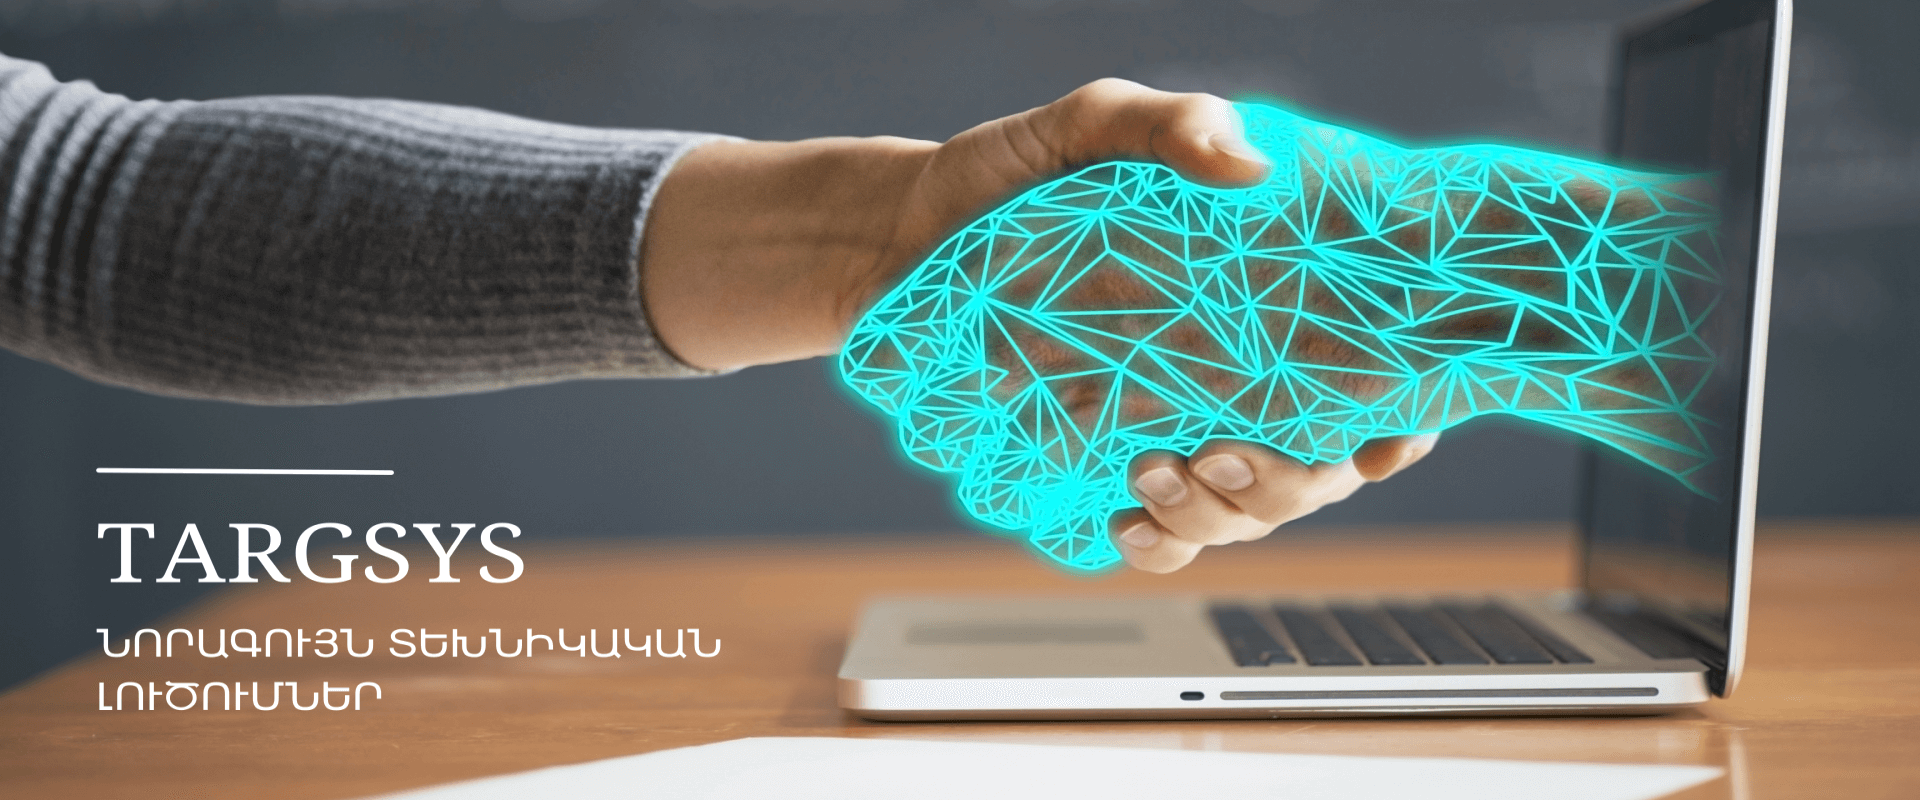
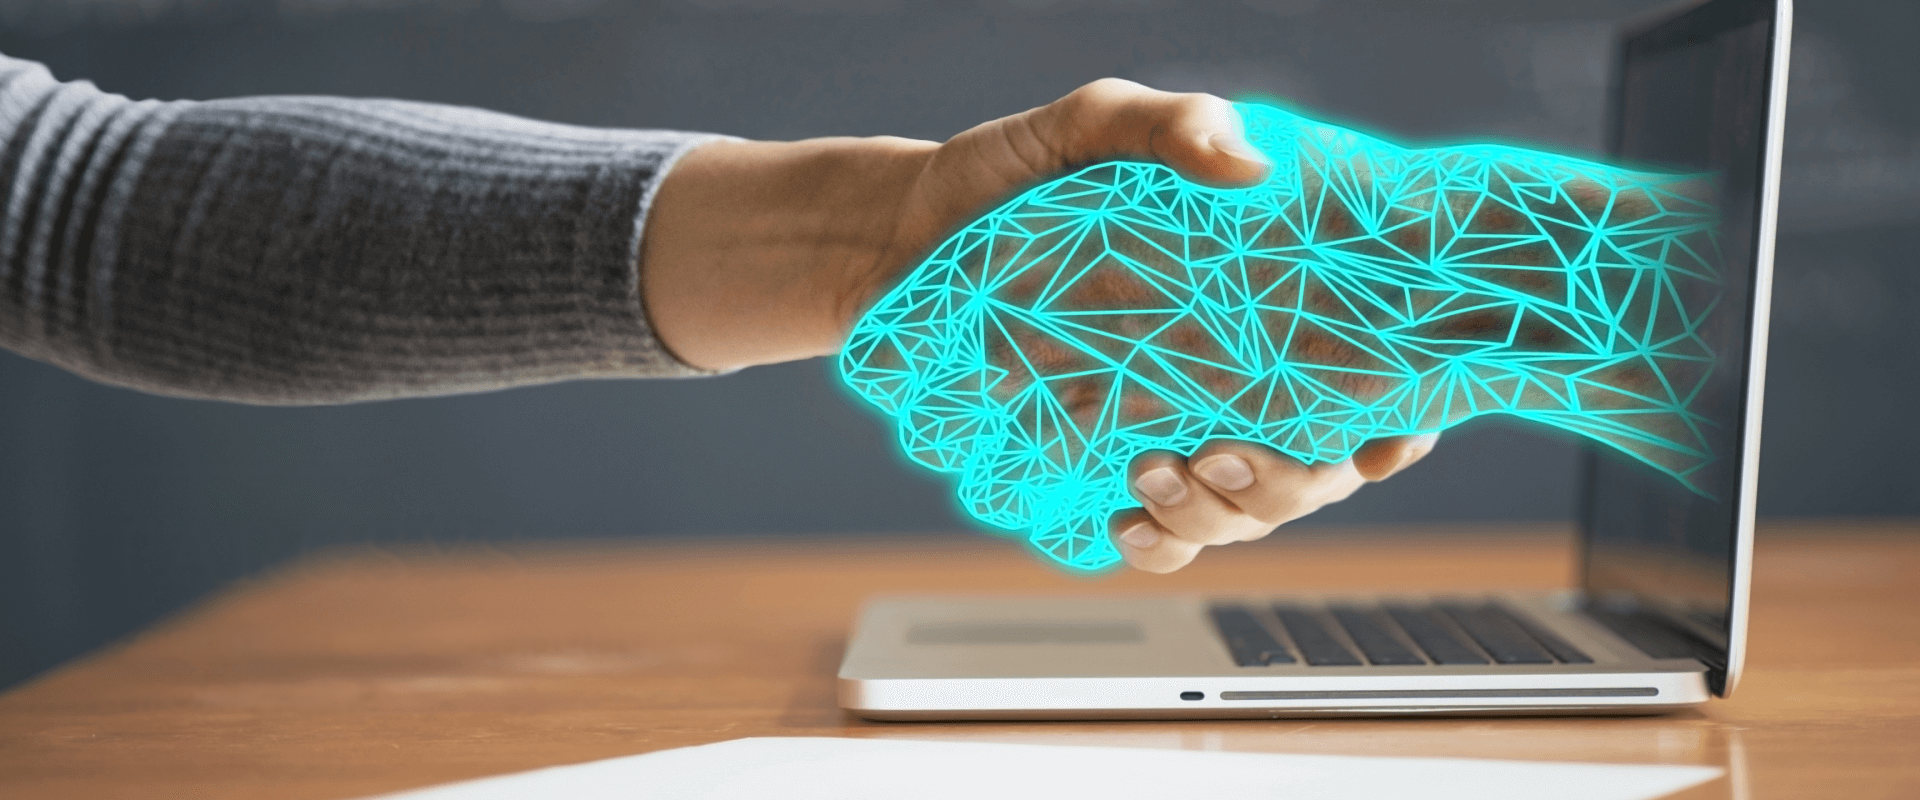
Style and structure changes (removed teching section)

Changed region(s): [[0.0625, 0.7812, 0.375, 0.9062], [0.0625, 0.6562, 0.2812, 0.75], [0.0625, 0.5625, 0.2188, 0.5938]]

diff --git a/index.html b/index.html
@@ -6,7 +6,7 @@
   <meta name="description" content="TargSys - ցանցային համակարգեր, ՏՏ սպասարկում, հեռախոսային համալիրներ և անվտանգություն։">
   <title>TargSys | ՏՏ լուծումներ, որոնք աշխատում են</title>
   <link rel="icon" type="image/png" href="assets/favicon.png">
-  <link rel="stylesheet" href="style.css?v=8">
+  <link rel="stylesheet" href="style.css?v=14">
 </head>
 <body>
   <!-- <div class="topline"></div> -->
@@ -19,7 +19,6 @@
       <nav class="nav-links" aria-label="Գլխավոր նավիգացիա">
         <a href="#about">Մեր մասին</a>
         <a href="#services">Ծառայություններ</a>
-        <a href="#training">Դասընթացներ</a>
         <a class="nav-cta" href="#contact">Կապ</a>
       </nav>
     </div>
@@ -28,17 +27,19 @@
   <main id="top">
     <section class="hero">
       <div class="wrap hero-content reveal">
-        <div class="eyebrow">TargSys · ՏՏ լուծումներ</div>
-        <h1>Ձեր բիզնեսի ավելի խելացի աշխատանքը</h1>
-        <p class="hero-copy">Ցանցեր, սերվերներ, կապ և անվտանգություն՝ միավորված հուսալի ՏՏ ենթակառուցվածքի մեջ։ TargSys-ը օգնում է ընկերություններին վստահ քայլել տեխնոլոգիական ժամանակաշրջանում</p>
+        <!-- <div class="eyebrow">TargSys · ՏՏ լուծումներ</div> -->
+        <!-- <h1>Ձեր բիզնեսի ավելի խելացի աշխատանքը</h1> -->
+        <!-- <p class="hero-copy">Ցանցեր, սերվերներ, կապ և անվտանգություն՝ միավորված հուսալի ՏՏ ենթակառուցվածքի մեջ։ TargSys-ը օգնում է ընկերություններին վստահ քայլել տեխնոլոգիական ժամանակաշրջանում</p> -->
+        <h1>TARGSYS</h1>
+        <p class="hero-copy">ՆՈՐԱԳՈՒՅՆ ՏԵԽՆԻԿԱԿԱՆ ԼՈՒԾՈՒՄՆԵՐ</p>
         <div class="actions">
           <a class="button button-primary" href="#services">Դիտել ծառայությունները</a>
           <a class="button button-ghost" href="#contact">Խոսել մասնագետի հետ</a>
         </div>
-        <div class="hero-note">
+        <!-- <div class="hero-note">
           <span><strong>360°</strong> ՏՏ աջակցություն</span>
           <span><strong>24/7</strong> Հեռահար կառավարում</span>
-        </div>
+        </div> -->
       </div>
     </section>
 
@@ -64,7 +65,6 @@
               <li>Անվտանգության և տեսագրման համակարգերի տեղադրում</li>
               <li>Պաշտպանական համալիրների մշակում</li>
               <li>Բարձրակարգ մասնագետների վերապատրաստում</li>
-              <li>ՏՏ դասընթացներ և այլն…</li>
             </ul>
             <p>Մեզ հետ սկսված ցանկացած համագործակցություն ավարտվում է բարեկամական ձեռքսեղմումով, քանի որ մենք սիրում ենք ժպիտ պարգևել մեր բոլոր հաճախորդներին։</p>
             <button class="button button-primary about-more-toggle about-more-close" type="button" aria-expanded="true" aria-controls="about-more" hidden>Փակել</button>
@@ -261,29 +261,11 @@
         <div class="carousel-status" aria-live="polite">1 / 2</div>
       </div>
     </section>
-
-    <section class="training" id="training">
-      <div class="wrap training-grid">
-        <div class="training-copy reveal">
-          <div class="kicker">ՏՏ դասընթացներ</div>
-          <h2>Մարդիկ, որոնք կառուցում են հաջորդ համակարգը</h2>
-          <p>TargSys-ը վերապատրաստում է որակյալ մասնագետների՝ հիմնվելով տարիների ընթացքում ձեռք բերված փորձի վրա։ Դասընթացը ներառում է օպերացիոն և սերվերային համակարգերի կառավարում, ցանցերի նախագծում և կառուցում</p>
-          <p>Մենք սիրով ընդունում ենք ուսանողներին և սկսնակ մասնագետներին, ովքեր ցանկանում են հարթել իրենց մասնագիտական ուղին</p>
-          <div class="training-topics">
-            <span class="topic">Օպերացիոն համակարգեր</span>
-            <span class="topic">Սերվերներ</span>
-            <span class="topic">Ցանցերի նախագծում</span>
-          </div>
-        </div>
-        <img class="reveal" src="assets/internet-training-600x450.png" alt="ՏՏ ուսուցում և մասնագետների վերապատրաստում" loading="lazy">
-      </div>
-    </section>
-
     <section class="contact" id="contact">
       <div class="wrap contact-grid">
         <div class="reveal">
           <div class="kicker">Կապ</div>
-          <h2>Եկեք կառուցենք ճիշտ կապը</h2>
+          <h2>Միասին կառուցենք արդյունավետ համակարգ</h2>
           <p class="contact-intro">Պատմեք ձեր ընկերության ՏՏ խնդրի մասին։ Մենք կօգնենք գտնել պարզ, հուսալի և զարգացող լուծում</p>
           <button class="button button-dark" type="button" id="copy-email">Պատճենել էլ․ փոստը</button>
         </div>
@@ -291,7 +273,7 @@
           <div class="contact-item"><dt>Հասցե</dt><dd>Տիգրան Մեծ 65ա</dd></div>
           <div class="contact-item"><dt>Հեռախոս</dt><dd><a href="tel:+37499509195">+374 99 509195</a><br><a href="tel:+37499509192">+374 99 509192</a></dd></div>
           <div class="contact-item"><dt>Էլ․ փոստ</dt><dd><a href="mailto:info@targsys.com">info@targsys.com</a></dd></div>
-          <div class="contact-item"><dt>Սոց ցանցեր</dt><dd><a href="https://www.facebook.com/profile.php?id=100076156727610" target="_blank" rel="noreferrer">Facebook</a> · <a href="https://www.instagram.com/targ_sys/" target="_blank" rel="noreferrer">Instagram</a></dd></div>
+          <div class="contact-item"><dt>Սոց ցանցեր</dt><dd class="social-links"><a class="social-link" href="https://www.facebook.com/profile.php?id=100076156727610" target="_blank" rel="noreferrer" aria-label="Facebook" title="Facebook"><svg viewBox="0 0 24 24" aria-hidden="true" focusable="false"><path fill="currentColor" d="M13.5 21v-7.5h2.6l.4-3h-3V8.6c0-.9.3-1.5 1.5-1.5h1.6V4.4c-.3 0-1.2-.1-2.3-.1-2.3 0-3.9 1.4-3.9 4v2.2H7.8v3h2.6V21h3.1z"/></svg></a><a class="social-link" href="https://www.instagram.com/targ_sys/" target="_blank" rel="noreferrer" aria-label="Instagram" title="Instagram"><svg viewBox="0 0 24 24" aria-hidden="true" focusable="false"><g fill="none" stroke="currentColor" stroke-width="1.8"><rect x="3.5" y="3.5" width="17" height="17" rx="5"/><circle cx="12" cy="12" r="4"/></g><circle cx="17.2" cy="6.8" r="1.1" fill="currentColor"/></svg></a></dd></div>
         </dl>
       </div>
       <div class="wrap">

diff --git a/style.css b/style.css
@@ -64,7 +64,7 @@ header {
 .hero {
   min-height: 760px;
   display: flex;
-  align-items: center;
+  align-items: flex-end;
   position: relative;
   overflow: hidden;
   color: var(--white);
@@ -72,7 +72,10 @@ header {
 }
 .hero::before { content: ""; position: absolute; inset: 0; background: rgba(11, 31, 51, .72); }
 .hero::after { content: ""; position: absolute; left: -10%; bottom: -180px; width: 70%; height: 300px; background: var(--blue-200); transform: rotate(-7deg); opacity: .12; }
-.hero-content { position: relative; z-index: 1; width: min(740px, 100%); padding-top: 75px; }
+/* Shares the header's width so its left edge lines up with the logo; sits low-left, below the arm in the slide. */
+.hero-content { position: relative; z-index: 1; /* padding-bottom: 96px; */ }
+/* Top rule exactly as wide as the word (padding offsets the trailing negative letter-spacing). */
+.hero h1 { width: fit-content; padding: 18px .04em 0 0; border-top: 3px solid var(--blue-200); }
 .eyebrow { color: var(--blue-200); text-transform: uppercase; letter-spacing: .18em; font-size: .72rem; font-weight: 800; }
 h1, h2, h3, p { margin-top: 0; }
 h1 { max-width: 760px; margin-bottom: 22px; font-size: clamp(2.8rem, 7vw, 5.8rem); line-height: 1.03; letter-spacing: -.04em; }
@@ -198,10 +201,14 @@ section { padding: 104px 0; }
 .contact h2 { max-width: 500px; margin-bottom: 16px; font-size: clamp(2.3rem, 5vw, 4.6rem); line-height: 1; letter-spacing: -.045em; }
 .contact-intro { max-width: 480px; color: rgba(10,31,50,.72); }
 .contact-list { display: grid; gap: 16px; align-content: center; }
-.contact-item { display: grid; grid-template-columns: 110px 1fr; padding-bottom: 14px; border-bottom: 1px solid rgba(10,31,50,.22); }
+.contact-item { display: grid; grid-template-columns: 110px 1fr; align-items: center; padding-bottom: 14px; border-bottom: 1px solid rgba(10,31,50,.22); }
 .contact-item dt { color: rgba(10,31,50,.62); font-size: .8rem; font-weight: 800; text-transform: uppercase; letter-spacing: .08em; }
 .contact-item dd { margin: 0; font-weight: 700; }
 .contact-item a { text-decoration: underline; text-decoration-color: rgba(10,31,50,.32); text-underline-offset: 4px; }
+.social-links { display: flex; flex-wrap: wrap; gap: 10px; }
+.contact-item .social-link { display: inline-grid; place-items: center; width: 42px; height: 42px; border-radius: 50%; color: var(--white); background: var(--ink); text-decoration: none; transition: transform .2s, background .2s, box-shadow .2s; }
+.contact-item .social-link:hover, .contact-item .social-link:focus-visible { background: var(--blue-500); transform: translateY(-2px); box-shadow: 0 10px 24px rgba(11,31,51,.16); }
+.social-link svg { width: 20px; height: 20px; }
 .map-frame { width: 100%; height: 500px; margin-top: 60px; border: 0; border-radius: var(--radius); box-shadow: 0 12px 30px rgba(10,31,50,.12); background: var(--blue-100); }
 
 footer { padding: 30px 0; color: rgba(255,255,255,.68); background: var(--ink); font-size: .85rem; }
@@ -214,6 +221,10 @@ footer { padding: 30px 0; color: rgba(255,255,255,.68); background: var(--ink); 
 .toast { position: fixed; right: 22px; bottom: 22px; z-index: 10; max-width: 310px; padding: 13px 16px; border-radius: 10px; color: var(--white); background: var(--ink); box-shadow: var(--shadow); opacity: 0; transform: translateY(12px); pointer-events: none; transition: .25s; }
 .toast.show { opacity: 1; transform: none; }
 
+/* On wide screens keep the header near the screen edges (30px, as at 1220px) instead of the 1160px content width. */
+@media (min-width: 1221px) {
+  .nav, .hero-content { width: calc(100% - 60px); }
+}
 @media (prefers-reduced-motion: reduce) {
   .service img, .service-content, .service-more { transition: none; }
 }
@@ -222,6 +233,7 @@ footer { padding: 30px 0; color: rgba(255,255,255,.68); background: var(--ink); 
   .nav-links.open { display: grid; gap: 14px; }
   .menu-toggle { display: block; }
   .hero { min-height: 680px; }
+  /* .hero-content { padding-bottom: 72px; } */
   .about-grid, .support-grid, .training-grid, .contact-grid { grid-template-columns: 1fr; gap: 42px; }
   .service-grid { grid-template-columns: repeat(2, 1fr); }
   .about-photo { max-width: 600px; }
@@ -235,7 +247,9 @@ footer { padding: 30px 0; color: rgba(255,255,255,.68); background: var(--ink); 
   section { padding: 76px 0; }
   .nav { min-height: 72px; }
   .brand img { width: 94px; }
-  .hero-content { padding-top: 54px; }
+  .hero-content { padding-bottom: 20px; }
+  /* .hero-content { padding-bottom: 56px; } */
+  .hero h1 { padding-top: 14px; }
   .hero-note { margin-top: 55px; gap: 18px; }
   .section-head { display: block; }
   .section-head p { margin-top: 18px; }
@@ -251,6 +265,11 @@ footer { padding: 30px 0; color: rgba(255,255,255,.68); background: var(--ink); 
   .map-frame { height: 300px; margin-top: 42px; }
   .contact-item { grid-template-columns: 92px 1fr; }
   .footer-inner { display: grid; }
+}
+@media (max-width: 526px) {
+  .hero-content { text-align: center; }
+  .hero h1, .hero-copy { margin-right: auto; margin-left: auto; }
+  .hero .actions { justify-content: center; }
 }
 @media (max-width: 315px) {
   .wrap { width: calc(100% - 20px); }
